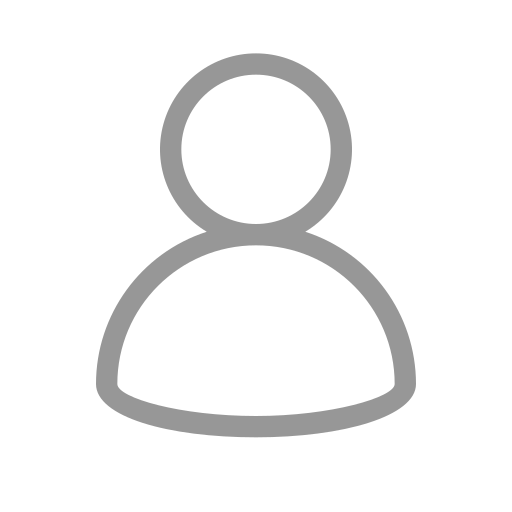
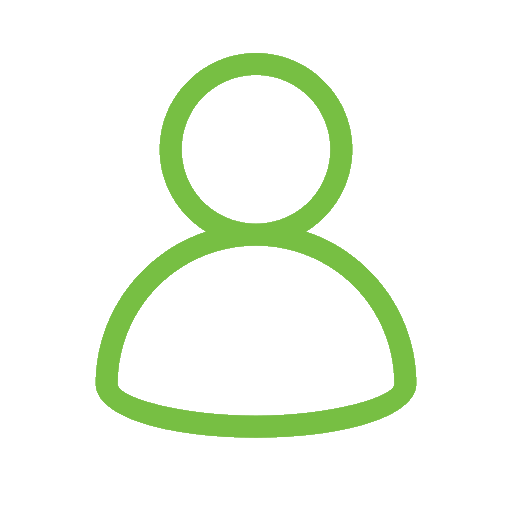
Dashboard Estilos

Changed region(s): [[0.1875, 0.0938, 0.8125, 0.875]]

diff --git a/resources/views/livewire/dashboard.blade.php b/resources/views/livewire/dashboard.blade.php
@@ -1,4 +1,3 @@
-<!-- resources/views/livewire/dashboard.blade.php -->
 <div>
     <x-slot:title>Inicio - Sistema Autogestión</x-slot:title>
 
@@ -17,128 +16,127 @@
     @endphp
 
     <!-- Main Container -->
-    <main class="overflow-hidden">
+    <main class="overflow-hidden relative">
         <!-- Content Wrapper -->
-        <div class="flex gap-8">
+        <div class="flex gap-8 relative z-10">
             <!-- Employee Section -->
-            <div class="flex-[0_0_30%] flex flex-col items-center bg-gradient-to-br from-gray-50 to-gray-200 p-6 rounded-2xl shadow-md">
-                <!-- Employee Photo -->
-                <div class="w-[120px] h-[120px] rounded-full bg-gradient-to-br from-[#91D5E2] to-[#77BF43] mb-4 flex items-center justify-center text-white text-5xl font-bold border-4 border-white shadow-lg">
-                    <img 
-                        src="{{ $foto }}" 
-                        alt="Foto Empleado" 
-                        class="w-full h-full rounded-full object-cover {{ !$tieneFoto ? 'brightness-0 invert' : '' }}"
-                    >
+            <div class="flex-[0_0_40%] flex flex-col bg-white px-16 rounded-2xl shadow-md overflow-hidden">
+                <!-- Sección Superior -->
+                <div class="flex items-center gap-6 p-6">
+                    <!-- Employee Photo -->
+                    <div class="w-[100px] h-[100px] rounded-full bg-white flex items-center justify-center text-white text-5xl font-bold border-2 border-[#77bf43] shadow-lg flex-shrink-0">
+                        <img 
+                            src="{{ $foto }}" 
+                            alt="Foto Empleado" 
+                            class="w-full h-full rounded-full object-cover"
+                        >
+                    </div>
+
+                    <!-- Empleado y Nombre -->
+                    <div class="flex flex-col">
+                        <p class="text-sm font-semibold text-[#77BF43] uppercase tracking-wide">Empleado</p>
+                        <p class="text-xl font-bold text-gray-800 mt-1">{{ auth()->user()->NOMBRE ?? 'Sin nombre' }}</p>
+                    </div>
                 </div>
 
-                <!-- Employee Info -->
-                <div class="w-full text-left">
-                    <p class="my-2 text-[0.95rem] text-gray-800">
-                        <strong class="text-[#77BF43] inline-block w-20">Empleado:</strong> 
-                        {{ auth()->user()->NOMBRE ?? 'Sin nombre' }}
-                    </p>
-                    <p class="my-2 text-[0.95rem] text-gray-800">
-                        <strong class="text-[#77BF43] inline-block w-20">DNI:</strong> 
-                        {{ auth()->user()->DNI ?? 'Sin DNI' }}
-                    </p>
-                    <p class="my-2 text-[0.95rem] text-gray-800">
-                        <strong class="text-[#77BF43] inline-block w-20">Legajo:</strong> 
-                        {{ auth()->user()->LEGAJO ?? 'Sin legajo' }}
-                    </p>
-                    <p class="my-2 text-[0.95rem] text-gray-800">
-                        <strong class="text-[#77BF43] inline-block w-20">Perfil:</strong> 
-                        Empleado
-                    </p>
-                    <p class="my-2 text-[0.95rem] text-gray-800">
-                        <strong class="text-[#77BF43] inline-block w-20">Categoría:</strong> 
-                        {{ auth()->user()->CATEGORIA ?? 'Sin categoría' }}
-                    </p>
-                    @if($cantidadHijos > 0)
-                        <p class="my-2 text-[0.95rem] text-gray-800">
-                            <strong class="text-[#77BF43] inline-block w-20">Hijos:</strong> 
-                            {{ $cantidadHijos }}
+                <!-- Barra Divisora Verde -->
+                <hr class="border-t-2 border-[#77BF43] mx-1">
+
+                <!-- Sección Inferior - 2 Columnas -->
+                <div class="grid grid-cols-2 gap-x-8 p-6">
+                    <!-- Columna Izquierda -->
+                    <div class="space-y-3">
+                        <p class="text-sm text-gray-800">
+                            <strong class="text-[#77BF43] block mb-1">DNI: <span class="text-[#333333] font-semibold">{{ auth()->user()->DNI ?? 'Sin DNI' }}</span></strong> 
                         </p>
-                    @endif
-                    @if($user->esta_inactivo)
-                        <p class="my-2 text-[0.95rem] text-gray-800">
-                            <strong class="text-[#77BF43] inline-block w-20">Estado:</strong> 
-                            Inactivo
+                        <p class="text-sm text-gray-800">
+                            <strong class="text-[#77BF43] block mb-1">Legajo: <span class="text-[#333333] font-semibold">{{ auth()->user()->LEGAJO ?? 'Sin legajo' }}</span></strong> 
                         </p>
-                    @endif
+                        @if($cantidadHijos > 0)
+                            <p class="text-sm text-gray-800">
+                                <strong class="text-[#77BF43] block mb-1">Hijos: <span  class="text-[#333333] font-semibold">{{ $cantidadHijos }}</span></strong> 
+                            </p>
+                        @endif
+                    </div>
+
+                    <!-- Columna Derecha -->
+                    <div class="space-y-3">
+                        <p class="text-sm text-gray-800">
+                            <strong class="text-[#77BF43] block mb-1">Perfil: <span class="text-[#333333] font-semibold">Empleado</span></strong> 
+                        </p>
+                        <p class="text-sm text-gray-800">
+                            <strong class="text-[#77BF43] block mb-1">Categoría: <span class="text-[#333333] font-semibold">{{ auth()->user()->CATEGORIA ?? 'Sin categoría' }}</span></strong> 
+                        </p>
+                        @if($user->esta_inactivo)
+                            <p class="text-sm text-gray-800">
+                                <strong class="text-[#77BF43] block mb-1">Estado: Inactivo</strong> 
+                            </p>
+                        @endif
+                    </div>
                 </div>
             </div>
-
             <!-- Welcome Section -->
-            <div class="flex-1 bg-gradient-to-br from-white to-gray-50 p-8 rounded-2xl shadow-md flex flex-col justify-center">
-                <h1 class="text-[#77BF43] mb-4 text-[1.8rem] font-bold">
-                    Bienvenido al sistema AUTOGESTIÓN
+            <div class="flex-1 p-8 flex flex-col justify-center items-center">
+                <h1 class="text-white text-left mb-4 text-[2.5rem] font-bold">
+                    <span class="block">SISTEMA</span>
+                    <span class="block">AUTOGESTIÓN</span>
                 </h1>
-                <p class="text-gray-600 leading-relaxed text-base">
-                    En esta página los empleados de la <strong class="text-[#91D5E2]">Municipalidad de Mercedes</strong>, podrán consultar 
-                    sus <strong class="text-[#91D5E2]">recibos de sueldos</strong> como así también, otros temas de interés.
-                </p>
-                <p class="text-gray-600 leading-relaxed text-base mt-4">
-                    Si tiene dudas, puede consultar la sección de <strong class="text-[#91D5E2]">Preguntas frecuentes</strong>
-                </p>
-                <p class="text-gray-600 leading-relaxed text-base mt-2">
-                    Si necesita informar algo puede dirigirse a la sección <strong class="text-[#91D5E2]">Contacto</strong>
-                </p>
-                @if($esJubilado)
-                    <button wire:click="verAnticipo" 
-                            class="px-4 py-2 bg-green-600 text-white text-sm rounded hover:bg-green-700 transition-colors">
-                        Ver Anticipo
-                    </button>
-                @endif
             </div>
         </div>
 
         <!-- Buttons Grid -->
-        <div class="grid grid-cols-5 gap-10 mt-auto">
+        <div class="grid grid-cols-5 gap-10 mt-auto relative z-10">
             <!-- Recibos -->
-            <a href="{{ route('recibos') }}" class="bg-gradient-to-br from-[#77BF43] to-[#BED630] text-white p-4 px-2 rounded-xl flex flex-col items-center gap-2 text-center transition-all duration-300 shadow-md hover:-translate-y-1 hover:shadow-xl no-underline cursor-pointer border-0 w-full">
-                <svg class="w-8 h-8 stroke-white" viewBox="0 0 24 24" fill="none" stroke="currentColor" stroke-width="2">
+            <a href="{{ route('recibos') }}" class="bg-[#bdd632] rounded-xl flex flex-row items-center justify-start gap-3 px-8 py-8 transition-all duration-300 shadow-md hover:-translate-y-1 hover:shadow-xl no-underline cursor-pointer border-0 w-full h-2/3">
+                <svg class="w-10 h-10 stroke-white" viewBox="0 0 24 24" fill="none" stroke="currentColor" stroke-width="2">
                     <path d="M14 2H6a2 2 0 0 0-2 2v16a2 2 0 0 0 2 2h12a2 2 0 0 0 2-2V8z"/>
                     <polyline points="14 2 14 8 20 8"/>
                     <line x1="16" y1="13" x2="8" y2="13"/>
                     <line x1="16" y1="17" x2="8" y2="17"/>
                 </svg>
-                <span class="font-semibold text-[0.9rem] text-white">Recibos</span>
+                <span class="ml-2 font-bold text-[1rem] text-[#333333]">RECIBOS</span>
             </a>
 
             <!-- Asistencias -->
-            <a href="{{ route('asistencias') }}" class="bg-gradient-to-br from-[#77BF43] to-[#BED630] text-white p-4 px-2 rounded-xl flex flex-col items-center gap-2 text-center transition-all duration-300 shadow-md hover:-translate-y-1 hover:shadow-xl no-underline cursor-pointer border-0 w-full">
-                <svg class="w-8 h-8 stroke-white" viewBox="0 0 24 24" fill="none" stroke="currentColor" stroke-width="2">
+            <a href="{{ route('asistencias') }}" class="bg-[#bdd632] rounded-xl flex flex-row items-center justify-start gap-3 px-8 py-8 transition-all duration-300 shadow-md hover:-translate-y-1 hover:shadow-xl no-underline cursor-pointer border-0 w-full h-2/3">
+                <svg class="w-10 h-10 stroke-white" viewBox="0 0 24 24" fill="none" stroke="currentColor" stroke-width="2">
                     <rect x="3" y="4" width="18" height="18" rx="2" ry="2"/>
                     <line x1="16" y1="2" x2="16" y2="6"/>
                     <line x1="8" y1="2" x2="8" y2="6"/>
                     <line x1="3" y1="10" x2="21" y2="10"/>
                 </svg>
-                <span class="font-semibold text-[0.9rem] text-white">Asistencias</span>
+                <span class="ml-2 font-bold text-[1rem] text-[#333333]">ASISTENCIAS</span>
             </a>
 
             <!-- Compensatorios -->
-            <a href="{{ route('compensatorios') }}" class="bg-gradient-to-br from-[#77BF43] to-[#BED630] text-white p-4 px-2 rounded-xl flex flex-col items-center gap-2 text-center transition-all duration-300 shadow-md hover:-translate-y-1 hover:shadow-xl no-underline cursor-pointer border-0 w-full">
-                <svg class="w-8 h-8 stroke-white" viewBox="0 0 24 24" fill="none" stroke="currentColor" stroke-width="2">
+            <a href="{{ route('compensatorios') }}" class="bg-[#bdd632] rounded-xl flex flex-row items-center justify-start gap-3 px-8 py-8 transition-all duration-300 shadow-md hover:-translate-y-1 hover:shadow-xl no-underline cursor-pointer border-0 w-full h-2/3">
+                <svg class="w-10 h-10 scale-125 stroke-white" viewBox="0 0 24 24" fill="none" stroke="currentColor" stroke-width="2">
                     <circle cx="12" cy="12" r="10"/>
                     <polyline points="12 6 12 12 16 14"/>
                 </svg>
-                <span class="font-semibold text-[0.9rem] text-white">Compensatorios</span>
+                <span class="ml-2 font-bold text-[1rem] text-[#333333]">COMPENSATORIOS</span>
             </a>
 
             <!-- Solicitudes -->
-            <a href="{{ route('solicitudes') }}" class="bg-gradient-to-br from-[#77BF43] to-[#BED630] text-white p-4 px-2 rounded-xl flex flex-col items-center gap-2 text-center transition-all duration-300 shadow-md hover:-translate-y-1 hover:shadow-xl no-underline cursor-pointer border-0 w-full">
-                <svg class="w-8 h-8 stroke-white" viewBox="0 0 24 24" fill="none" stroke="currentColor" stroke-width="2">
+            <a href="{{ route('solicitudes') }}" class="bg-[#bdd632] rounded-xl flex flex-row items-center justify-start gap-3 px-8 py-8 transition-all duration-300 shadow-md hover:-translate-y-1 hover:shadow-xl no-underline cursor-pointer border-0 w-full h-2/3">
+                <svg class="w-10 h-10 stroke-white" viewBox="0 0 24 24" fill="none" stroke="currentColor" stroke-width="2">
                     <path d="M14 2H6a2 2 0 0 0-2 2v16a2 2 0 0 0 2 2h12a2 2 0 0 0 2-2V8z"/>
                     <polyline points="14 2 14 8 20 8"/>
                     <line x1="12" y1="18" x2="12" y2="12"/>
                     <line x1="9" y1="15" x2="15" y2="15"/>
                 </svg>
-                <span class="font-semibold text-[0.9rem] text-white">Solicitudes</span>
+                <span class="ml-2 font-bold text-[1rem] text-[#333333]">SOLICITUDES</span>
             </a>
 
             <!-- Planillas -->
-            <a href="{{ route('planillas') }}" class="bg-gradient-to-br from-[#77BF43] to-[#BED630] text-white p-4 px-2 rounded-xl flex flex-col items-center gap-2 text-center transition-all duration-300 shadow-md hover:-translate-y-1 hover:shadow-xl no-underline cursor-pointer border-0 w-full">
-                <span class="font-semibold text-[0.9rem] text-white">Planillas</span>
+            <a href="{{ route('planillas') }}" 
+            class="bg-[#bdd632] rounded-xl flex flex-row items-center justify-start gap-3 px-8 py-8 transition-all duration-300 shadow-md hover:-translate-y-1 hover:shadow-xl no-underline cursor-pointer border-0 w-full h-2/3">
+                <svg class="w-10 h-10 stroke-white" viewBox="0 0 24 24" fill="none" stroke="currentColor" stroke-width="2">
+                    <rect x="3" y="3" width="18" height="18" rx="2" ry="2"/>
+                    <line x1="3" y1="9" x2="21" y2="9"/>
+                    <line x1="9" y1="21" x2="9" y2="9"/>
+                </svg>
+                <span class="ml-2 font-bold text-[1rem] text-[#333333]">PLANILLAS</span>
             </a>
 
             <!-- Planillas -->

diff --git a/resources/views/components/layouts/autogestion.blade.php b/resources/views/components/layouts/autogestion.blade.php
@@ -18,49 +18,87 @@
     </head>
     <body>
         <!-- Header -->
-        <header class="fixed top-0 left-0 right-0 z-50 bg-[linear-gradient(150deg,#77BF43_0%,#91D5E2_20%,#BED630_100%)] shadow-md flex justify-between items-center px-8 py-4">
+        <header class="fixed top-0 left-0 right-0 z-50 bg-[#bdd632] shadow-md flex justify-between items-center px-8 py-4">
             <div class="logo">
                 <a href="{{ route('dashboard') }}">
-                    <img src="{{ asset('images/logo-muni.svg') }}" alt="Logo Municipalidad">
+                    <img src="{{ asset('images/logo.png') }}" alt="Logo Municipalidad">
                 </a>
             </div>
             <div class="header-right">
-                <flux:dropdown>
-                    <flux:button class="btn-autogestion">Autogestión</flux:button>
-                    <flux:menu>
-                        <flux:menu.item href="{{ route('dashboard') }}">Inicio</flux:menu.item>
-                        <flux:menu.item href="#">Mi Perfil</flux:menu.item>
-                    </flux:menu>
-                </flux:dropdown>
+                <button class="bg-white text-black rounded-full px-3 py-1 hover:bg-gray-100 transition-colors text-xs font-bold">
+                    Preguntas Frecuentes
+                </button>
 
-                <form method="POST" action="{{ route('logout') }}">
-                    @csrf
-                    <flux:button type="submit" icon="arrow-right-start-on-rectangle" class="btn-logout">
-                        Salir
-                    </flux:button>
-                </form>
+                <button class="bg-black text-[#bdd632] rounded-full px-3 py-1 hover:bg-gray-800 transition-colors flex items-center gap-2 text-xs font-bold">
+                    <img src="{{ asset('images/icono-perfil.png') }}" class="w-5 h-5 rounded-full text-[#bdd632]" alt="Foto de Perfil">
+                    Mi Perfil
+                </button>
             </div>
         </header>
 
         <!-- Main Content -->
         <main class="flex-1 overflow-auto px-6 py-20">
+            <!-- Imagen de fondo que ocupa el 45% superior - Solo en Dashboard -->
+            @if(request()->routeIs('dashboard'))
+                <div class="absolute top-0 left-0 right-0 h-[45%] z-0">
+                    <img 
+                        src="{{ asset('images/fondo.png') }}" 
+                        alt="Fondo" 
+                        class="w-full h-full object-cover"
+                    >
+                    <div class="bg-pink-500 h-1/6">
+                        ---
+                    </div>
+                    <!-- Overlay opcional para oscurecer la imagen -->
+                    <div class="absolute inset-0 bg-black/20"></div>
+                </div>
+            @endif
             {{ $slot }}
         </main>
 
         <!-- Footer -->
-        <footer class="fixed bottom-0 left-0 right-0 z-50 flex justify-center items-center p-4 px-8
-                   bg-[linear-gradient(90deg,#91D5E2_0%,#91D5E2_2%,#77BF43_25%,#77BF43_75%,#91D5E2_98%,#91D5E2_100%)]">
-            <div class="footer-logo">
-                <img src="{{ asset('images/logo-muni-M.svg') }}" alt="Logo Municipalidad">
+        <footer class="fixed bottom-0 left-0 right-0 z-50 flex justify-between items-center p-4 px-40 bg-[#333333]">
+            
+            <!-- Lado izquierdo -->
+            <div class="flex flex-col gap-2">
+                <h3 class="text-white font-semibold text-sm">Municipalidad de Mercedes</h3>
+                <div class="flex gap-3">
+                    <!-- Facebook -->
+                    <a href="#" class="text-white hover:opacity-80 transition-opacity">
+                        <svg class="h-4 w-4" fill="currentColor" viewBox="0 0 24 24">
+                            <path d="M24 12.073c0-6.627-5.373-12-12-12s-12 5.373-12 12c0 5.99 4.388 10.954 10.125 11.854v-8.385H7.078v-3.47h3.047V9.43c0-3.007 1.792-4.669 4.533-4.669 1.312 0 2.686.235 2.686.235v2.953H15.83c-1.491 0-1.956.925-1.956 1.874v2.25h3.328l-.532 3.47h-2.796v8.385C19.612 23.027 24 18.062 24 12.073z"/>
+                        </svg>
+                    </a>
+                    <!-- Instagram -->
+                    <a href="#" class="text-white hover:opacity-80 transition-opacity">
+                        <svg class="h-4 w-4" fill="currentColor" viewBox="0 0 24 24">
+                            <path d="M12 2.163c3.204 0 3.584.012 4.85.07 3.252.148 4.771 1.691 4.919 4.919.058 1.265.069 1.645.069 4.849 0 3.205-.012 3.584-.069 4.849-.149 3.225-1.664 4.771-4.919 4.919-1.266.058-1.644.07-4.85.07-3.204 0-3.584-.012-4.849-.07-3.26-.149-4.771-1.699-4.919-4.92-.058-1.265-.07-1.644-.07-4.849 0-3.204.013-3.583.07-4.849.149-3.227 1.664-4.771 4.919-4.919 1.266-.057 1.645-.069 4.849-.069zm0-2.163c-3.259 0-3.667.014-4.947.072-4.358.2-6.78 2.618-6.98 6.98-.059 1.281-.073 1.689-.073 4.948 0 3.259.014 3.668.072 4.948.2 4.358 2.618 6.78 6.98 6.98 1.281.058 1.689.072 4.948.072 3.259 0 3.668-.014 4.948-.072 4.354-.2 6.782-2.618 6.979-6.98.059-1.28.073-1.689.073-4.948 0-3.259-.014-3.667-.072-4.947-.196-4.354-2.617-6.78-6.979-6.98-1.281-.059-1.69-.073-4.949-.073zm0 5.838c-3.403 0-6.162 2.759-6.162 6.162s2.759 6.163 6.162 6.163 6.162-2.759 6.162-6.163c0-3.403-2.759-6.162-6.162-6.162zm0 10.162c-2.209 0-4-1.79-4-4 0-2.209 1.791-4 4-4s4 1.791 4 4c0 2.21-1.791 4-4 4zm6.406-11.845c-.796 0-1.441.645-1.441 1.44s.645 1.44 1.441 1.44c.795 0 1.439-.645 1.439-1.44s-.644-1.44-1.439-1.44z"/>
+                        </svg>
+                    </a>
+                    <!-- YouTube -->
+                    <a href="#" class="text-white hover:opacity-80 transition-opacity">
+                        <svg class="h-4 w-4" fill="currentColor" viewBox="0 0 24 24">
+                            <path d="M23.498 6.186a3.016 3.016 0 0 0-2.122-2.136C19.505 3.545 12 3.545 12 3.545s-7.505 0-9.377.505A3.017 3.017 0 0 0 .502 6.186C0 8.07 0 12 0 12s0 3.93.502 5.814a3.016 3.016 0 0 0 2.122 2.136c1.871.505 9.376.505 9.376.505s7.505 0 9.377-.505a3.015 3.015 0 0 0 2.122-2.136C24 15.93 24 12 24 12s0-3.93-.502-5.814zM9.545 15.568V8.432L15.818 12l-6.273 3.568z"/>
+                        </svg>
+                    </a>
+                </div>
             </div>
+
+            <!-- Lado derecho -->
+            <a href="https://wa.me/5491234567890" class="flex items-center gap-2 text-white hover:opacity-80 transition-opacity">
+                <svg class="h-6 w-6 text-[#bdd632]" fill="currentColor" viewBox="0 0 24 24">
+                    <path d="M17.472 14.382c-.297-.149-1.758-.867-2.03-.967-.273-.099-.471-.148-.67.15-.197.297-.767.966-.94 1.164-.173.199-.347.223-.644.075-.297-.15-1.255-.463-2.39-1.475-.883-.788-1.48-1.761-1.653-2.059-.173-.297-.018-.458.13-.606.134-.133.298-.347.446-.52.149-.174.198-.298.298-.497.099-.198.05-.371-.025-.52-.075-.149-.669-1.612-.916-2.207-.242-.579-.487-.5-.669-.51-.173-.008-.371-.01-.57-.01-.198 0-.52.074-.792.372-.272.297-1.04 1.016-1.04 2.479 0 1.462 1.065 2.875 1.213 3.074.149.198 2.096 3.2 5.077 4.487.709.306 1.262.489 1.694.625.712.227 1.36.195 1.871.118.571-.085 1.758-.719 2.006-1.413.248-.694.248-1.289.173-1.413-.074-.124-.272-.198-.57-.347m-5.421 7.403h-.004a9.87 9.87 0 01-5.031-1.378l-.361-.214-3.741.982.998-3.648-.235-.374a9.86 9.86 0 01-1.51-5.26c.001-5.45 4.436-9.884 9.888-9.884 2.64 0 5.122 1.03 6.988 2.898a9.825 9.825 0 012.893 6.994c-.003 5.45-4.437 9.884-9.885 9.884m8.413-18.297A11.815 11.815 0 0012.05 0C5.495 0 .16 5.335.157 11.892c0 2.096.547 4.142 1.588 5.945L.057 24l6.305-1.654a11.882 11.882 0 005.683 1.448h.005c6.554 0 11.89-5.335 11.893-11.893a11.821 11.821 0 00-3.48-8.413Z"/>
+                </svg>
+                <span class="font-semibold text-sm">Contactate</span>
+            </a>
         </footer>
 
         <!-- WhatsApp Floating Button -->
-        <a href="https://wa.me/5491234567890" target="_blank" class="whatsapp-btn">
+        <!-- <a href="https://wa.me/5491234567890" target="_blank" class="whatsapp-btn">
             <svg viewBox="0 0 24 24">
                 <path d="M17.472 14.382c-.297-.149-1.758-.867-2.03-.967-.273-.099-.471-.148-.67.15-.197.297-.767.966-.94 1.164-.173.199-.347.223-.644.075-.297-.15-1.255-.463-2.39-1.475-.883-.788-1.48-1.761-1.653-2.059-.173-.297-.018-.458.13-.606.134-.133.298-.347.446-.52.149-.174.198-.298.298-.497.099-.198.05-.371-.025-.52-.075-.149-.669-1.612-.916-2.207-.242-.579-.487-.5-.669-.51-.173-.008-.371-.01-.57-.01-.198 0-.52.074-.792.372-.272.297-1.04 1.016-1.04 2.479 0 1.462 1.065 2.875 1.213 3.074.149.198 2.096 3.2 5.077 4.487.709.306 1.262.489 1.694.625.712.227 1.36.195 1.871.118.571-.085 1.758-.719 2.006-1.413.248-.694.248-1.289.173-1.413-.074-.124-.272-.198-.57-.347m-5.421 7.403h-.004a9.87 9.87 0 01-5.031-1.378l-.361-.214-3.741.982.998-3.648-.235-.374a9.86 9.86 0 01-1.51-5.26c.001-5.45 4.436-9.884 9.888-9.884 2.64 0 5.122 1.03 6.988 2.898a9.825 9.825 0 012.893 6.994c-.003 5.45-4.437 9.884-9.885 9.884m8.413-18.297A11.815 11.815 0 0012.05 0C5.495 0 .16 5.335.157 11.892c0 2.096.547 4.142 1.588 5.945L.057 24l6.305-1.654a11.882 11.882 0 005.683 1.448h.005c6.554 0 11.89-5.335 11.893-11.893a11.821 11.821 0 00-3.48-8.413Z"/>
             </svg>
-        </a>
+        </a> -->
 
         @stack('scripts')
     </body>
